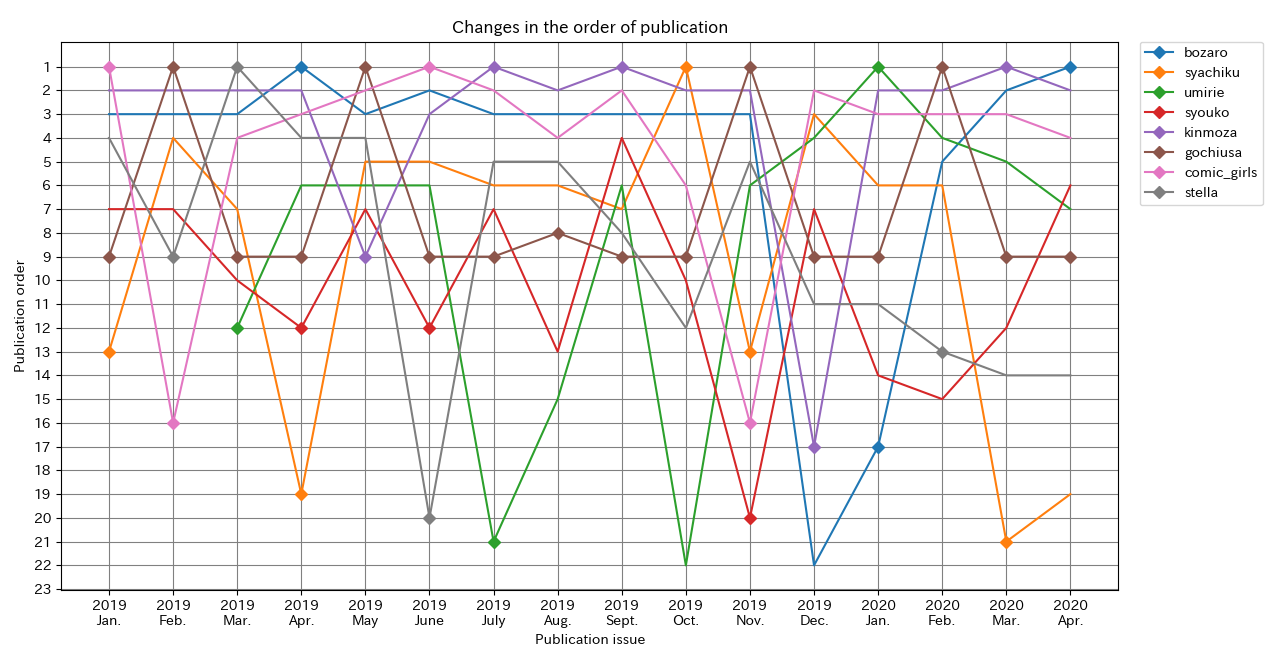
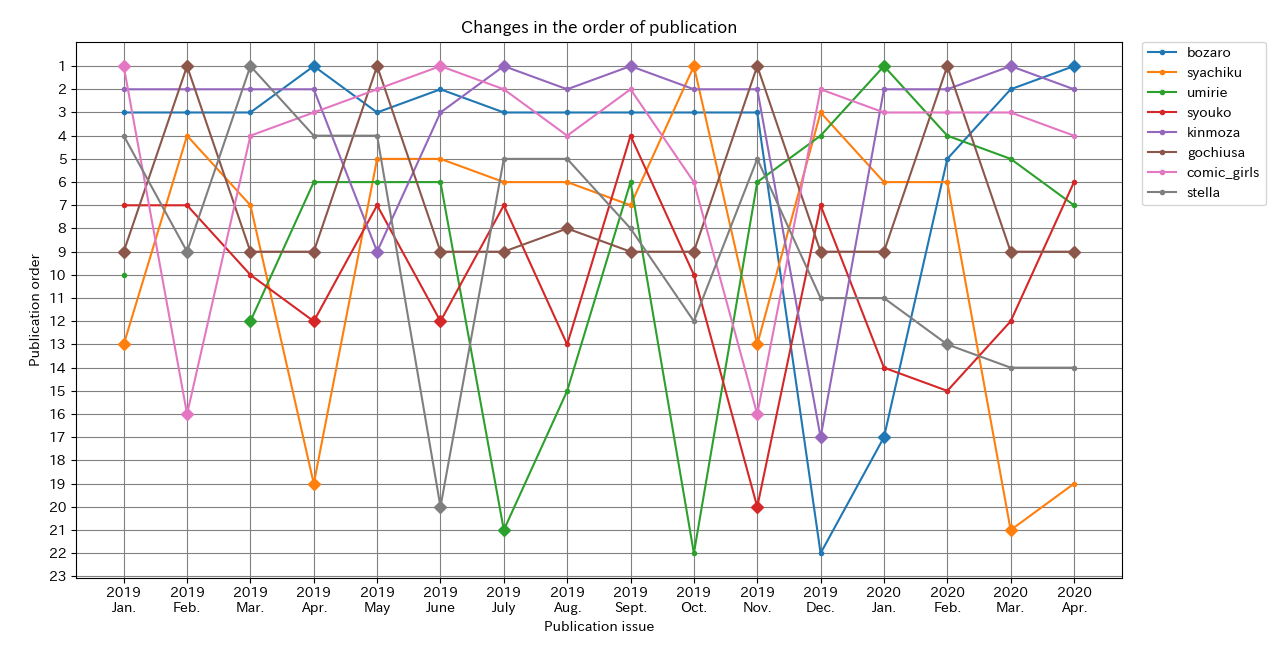
rebuilding site 2020年  3月 16日 月曜日 21:01:51 JST

Changed region(s): [[0.0, 0.0616, 1.0, 1.0], [0.3438, 0.0308, 0.5938, 0.0616]]

diff --git a/post/kirara_order_2020/index.html b/post/kirara_order_2020/index.html
@@ -54,7 +54,8 @@ if (!doNotTrack) {
 
     <meta name="twitter:card" content="summary"/>
 <meta name="twitter:title" content="まんがタイムきららMAXの掲載順を可視化・分析する2020"/>
-<meta name="twitter:description" content="はじめに この記事は過去に書いたどうびじゅの連載終了が告知され心と胃を痛めているきららmax読者のためのスクレイピングを使ったデータ収集と考察のススメ - Qiitaのリバイバル版です。
+<meta name="twitter:description" content="↑今回の成果
+はじめに この記事は過去に書いたどうびじゅの連載終了が告知され心と胃を痛めているきららmax読者のためのスクレイピングを使ったデータ収集と考察のススメ - Qiitaのリバイバル版です。
  もうこの記事から1年経っているので新しくデータを集めて可視化しようかなと。
 毎年一回はやりたいなこれ。（気に入ってる）
 キャラット版は[こちら]()（まだ作ってない）
@@ -66,7 +67,8 @@ if (!doNotTrack) {
 $ uname -a Linux kali 4.18.0-kali2-amd64 #1 SMP Debian 4.18.10-2kali1 (2018-10-09) x86_64 GNU/Linux $ python3 --version Python 3.7.6 $ pip3 show requests Name: requests Version: 2.22.0 $ pip3 show beautifulsoup4 Name: beautifulsoup4 Version: 4.8.2 $ pip3 show matplotlib Name: matplotlib Version: 3.1.2 $ pip3 show numpy Name: numpy Version: 1.17.4 $ pip3 show chardet Name: chardet Version: 3."/>
 
     <meta property="og:title" content="まんがタイムきららMAXの掲載順を可視化・分析する2020" />
-<meta property="og:description" content="はじめに この記事は過去に書いたどうびじゅの連載終了が告知され心と胃を痛めているきららmax読者のためのスクレイピングを使ったデータ収集と考察のススメ - Qiitaのリバイバル版です。
+<meta property="og:description" content="↑今回の成果
+はじめに この記事は過去に書いたどうびじゅの連載終了が告知され心と胃を痛めているきららmax読者のためのスクレイピングを使ったデータ収集と考察のススメ - Qiitaのリバイバル版です。
  もうこの記事から1年経っているので新しくデータを集めて可視化しようかなと。
 毎年一回はやりたいなこれ。（気に入ってる）
 キャラット版は[こちら]()（まだ作ってない）
@@ -132,6 +134,9 @@ $ uname -a Linux kali 4.18.0-kali2-amd64 #1 SMP Debian 4.18.10-2kali1 (2018-10-0
     </header>
     <div class="post-content">
       
+
+<p><img src="/images/max_2020_mod.png" alt="carat_result" />
+↑今回の成果</p>
 
 <h1 id="はじめに">はじめに</h1>
 
